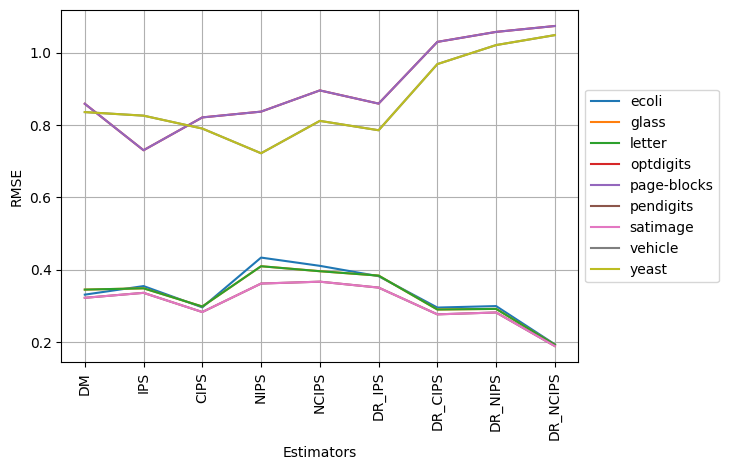
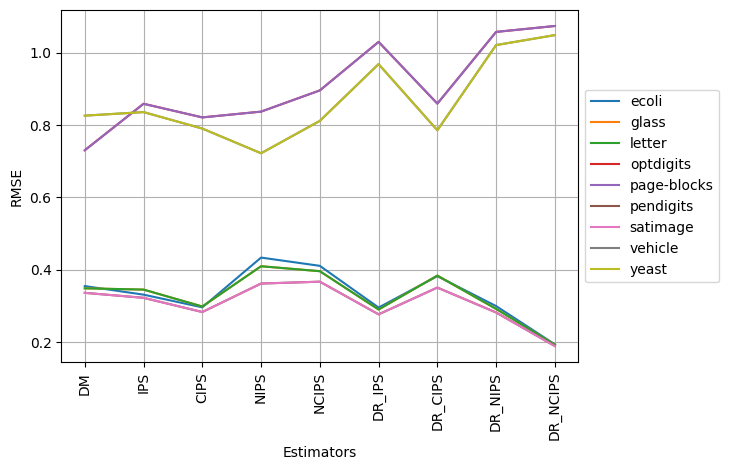
Added the noisy reward models

diff --git a/data/data_manager.py b/data/data_manager.py
@@ -12,13 +12,15 @@ DATASET_NAMES = ["ecoli", "glass", "letter", "optdigits", "page-blocks", "pendig
 
 
 class Data(object):
-    def __init__(self):
+    def __init__(self, if_noisy=False):
         self.x = None
         self.y = None
         self.y_onehot = None
         self.load_data()
         self.relabelling()
         self.one_hot_vectorise()
+        if if_noisy:
+            self.add_noise()
 
     def load_data(self):
         raise NotImplementedError()
@@ -34,6 +36,15 @@ class Data(object):
     def one_hot_vectorise(self):
         num_label = len(np.unique(self.y))
         self.y_onehot = np.eye(num_label)[self.y - 1]
+
+    def add_noise(self):
+        """ In addition to this deterministic reward model, we also consider
+            a noisy reward model for each data set, which reveals the correct reward
+            with probability 0.5 and outputs a random coin toss otherwise.
+            Theoretically, this should lead to bigger std and larger variance in all estimators.
+        """
+        mask = np.random.random(size=self.y.shape[0]) > 0.5
+        self.y_onehot[~mask] = np.random.binomial(n=1, p=0.5, size=self.y_onehot[~mask].shape)
 
     @property
     def num_label(self):
@@ -118,8 +129,16 @@ class load_yeast(Data):
 
 
 if __name__ == '__main__':
+    print("=== Without Noise ===")
     for name in DATASET_NAMES:
         if name == "page-blocks":
             name = "page_blocks"
         data = eval("load_{}()".format(name))
+        print("[{}] x: {} y: {} num_label: {}".format(name, data.x.shape, data.y.shape, data.num_label))
+
+    print("=== With Noise ===")
+    for name in DATASET_NAMES:
+        if name == "page-blocks":
+            name = "page_blocks"
+        data = eval("load_{}(if_noisy=True)".format(name))
         print("[{}] x: {} y: {} num_label: {}".format(name, data.x.shape, data.y.shape, data.num_label))
